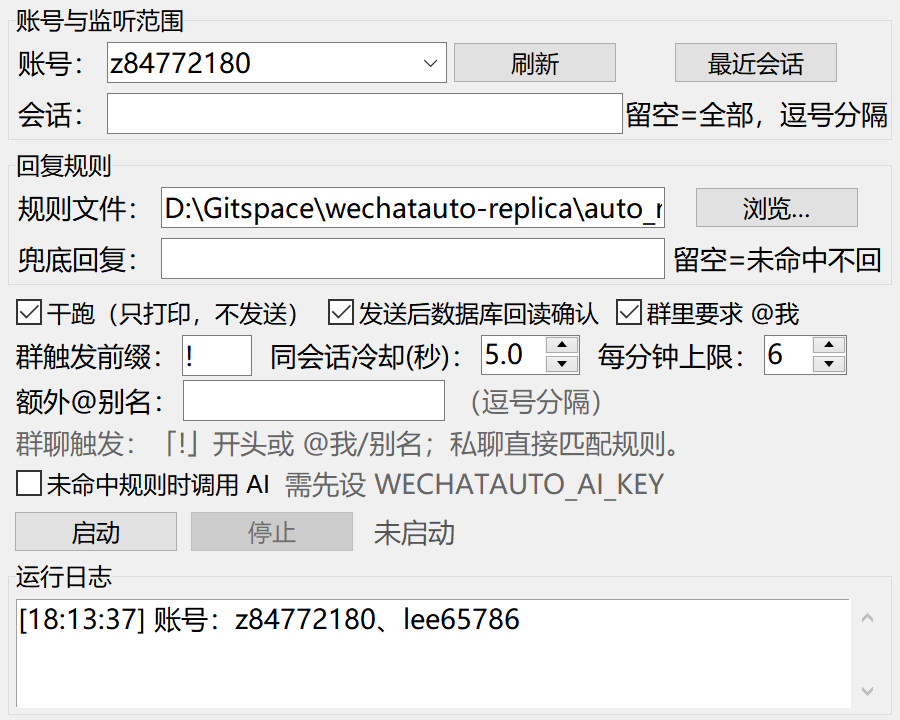
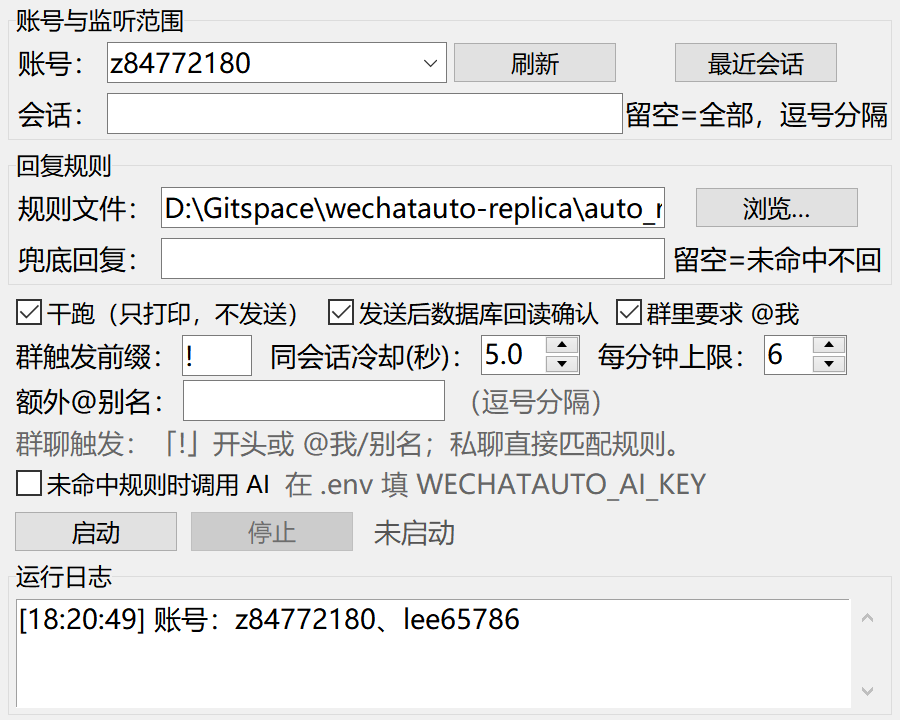
feat(auto-reply): 支持 .env 配置 AI Key
- 新增 .env.example 模板 + wechatauto/env.py 极简加载器
- .env 加入 .gitignore，本地密钥不提交
- ai_reply: 系统环境变量优先，其次仓库根目录 .env
- GUI/文档提示改为在 .env 填 WECHATAUTO_AI_KEY

Changed region(s): [[0.3111, 0.6417, 0.7778, 0.7028], [0.0622, 0.825, 0.1556, 0.8861]]

diff --git a/wechatauto/env.py b/wechatauto/env.py
@@ -1,0 +1,72 @@
+# -*- coding: utf-8 -*-
+"""极简 .env 加载器（不引入 python-dotenv）。
+
+规则：
+
+- 只读取 ``KEY=VALUE``，忽略空行与 ``#`` 注释；
+- 支持 ``export KEY=VALUE``、单引号/双引号；
+- **不覆盖已存在的环境变量**（系统环境优先于 .env）；
+- 默认查找 当前目录/.env 和 仓库根目录/.env。
+
+用法::
+
+    from wechatauto.env import load_dotenv
+    load_dotenv()          # 只补缺失的变量
+"""
+from __future__ import annotations
+
+import os
+from pathlib import Path
+from typing import Dict, Iterable, Optional
+
+
+def _candidates() -> Iterable[Path]:
+    seen = set()
+    for p in (Path.cwd() / ".env",
+              Path(__file__).resolve().parent.parent / ".env"):
+        rp = p.resolve()
+        if rp not in seen:
+            seen.add(rp)
+            yield rp
+
+
+def parse_env_text(text: str) -> Dict[str, str]:
+    """把 .env 文本解析成 dict（不写环境变量）。"""
+    out: Dict[str, str] = {}
+    for raw in (text or "").splitlines():
+        line = raw.strip()
+        if not line or line.startswith("#"):
+            continue
+        if line.startswith("export "):
+            line = line[7:].lstrip()
+        if "=" not in line:
+            continue
+        key, val = line.split("=", 1)
+        key = key.strip()
+        if not key:
+            continue
+        val = val.strip()
+        if len(val) >= 2 and val[0] == val[-1] and val[0] in ("'", '"'):
+            val = val[1:-1]
+        out[key] = val
+    return out
+
+
+def load_dotenv(paths: Optional[Iterable[str]] = None,
+                override: bool = False) -> Dict[str, str]:
+    """加载 .env 到 os.environ，返回本次真正写入的键值。
+
+    ``override=False`` 时**不会覆盖**已有环境变量：系统环境变量优先。
+    """
+    loaded: Dict[str, str] = {}
+    candidates = [Path(p) for p in paths] if paths else list(_candidates())
+    for p in candidates:
+        try:
+            text = p.read_text(encoding="utf-8-sig")
+        except OSError:
+            continue
+        for k, v in parse_env_text(text).items():
+            if override or k not in os.environ:
+                os.environ[k] = v
+                loaded[k] = v
+    return loaded

diff --git a/wechatauto/ai_reply.py b/wechatauto/ai_reply.py
@@ -2,7 +2,8 @@
 """可选的 AI 回复钩子（OpenAI 兼容接口，不用额外依赖）。
 
 只负责「给一段对方消息，返回一段回复文本」，不碰微信、不碰线程。
-默认从环境变量读配置：
+
+配置优先读环境变量，其次读仓库根目录的 ``.env``（``.env`` 已 gitignore）：
 
     WECHATAUTO_AI_KEY     必填，API Key
     WECHATAUTO_AI_BASE    接口地址，默认 https://api.deepseek.com/v1
@@ -11,7 +12,7 @@
     WECHATAUTO_AI_TIMEOUT 超时秒数，默认 20
 
 兼容 DeepSeek / OpenAI / Ollama / vLLM 等 `/chat/completions` 接口。
-Key 只从环境变量读，不写进代码、不落盘。
+Key 只从环境变量 / .env 读，不写进代码；.env 不会被提交。
 """
 from __future__ import annotations
 
@@ -20,6 +21,8 @@ import os
 import urllib.error
 import urllib.request
 from typing import Callable, Optional
+
+from wechatauto.env import load_dotenv
 
 DEFAULT_BASE = "https://api.deepseek.com/v1"
 DEFAULT_MODEL = "deepseek-chat"
@@ -71,6 +74,7 @@ def make_reply_fn(base: Optional[str] = None, key: Optional[str] = None,
                   timeout: Optional[float] = None
                   ) -> Optional[Callable[[str, str, str], Optional[str]]]:
     """构造 ``fn(text, sender, chat) -> reply|None``；没配 Key 返回 None。"""
+    load_dotenv()          # .env 只补缺失项，系统环境变量优先
     key = (key or _env("WECHATAUTO_AI_KEY"))
     if not key:
         return None

diff --git a/wechatauto/auto_reply_gui.py b/wechatauto/auto_reply_gui.py
@@ -140,7 +140,7 @@ class AutoReplyApp:
         ttk.Checkbutton(row5, text="未命中规则时调用 AI",
                         variable=self.ai_var).pack(side="left", padx=6)
         ttk.Label(row5, foreground="#666",
-                  text="需先设 WECHATAUTO_AI_KEY"
+                  text="在 .env 填 WECHATAUTO_AI_KEY"
                   ).pack(side="left", padx=(4, 0))
 
         ctrl = ttk.Frame(self.root)

diff --git a/AUTO_REPLY.md b/AUTO_REPLY.md
@@ -105,15 +105,25 @@ python -m wechatauto.demo_auto_reply --all --rules auto_reply_rules.json
 ## 4. 接入 AI（可选，已内置）
 
 代码在 `wechatauto/ai_reply.py`，走 **OpenAI 兼容** 的 `/chat/completions`
-（DeepSeek / OpenAI / Ollama / vLLM 都行）。Key 只从环境变量读，不写代码、不落盘。
+（DeepSeek / OpenAI / Ollama / vLLM 都行）。
+
+Key 放在仓库根目录的 **`.env`** 里（该文件已被 `.gitignore` 忽略，不会推到 GitHub）：
+
+```ini
+WECHATAUTO_AI_KEY=sk-你的key
+WECHATAUTO_AI_BASE=https://api.deepseek.com/v1
+WECHATAUTO_AI_MODEL=deepseek-chat
+```
+
+没有 `.env` 就复制 `.env.example`：
 
 ```powershell
-$env:WECHATAUTO_AI_KEY="sk-..."                          # 必填
-$env:WECHATAUTO_AI_BASE="https://api.deepseek.com/v1"     # 可选，默认就是这个
-$env:WECHATAUTO_AI_MODEL="deepseek-chat"                  # 可选
-# $env:WECHATAUTO_AI_SYSTEM="你是..."                     # 可选，系统提示词
-# $env:WECHATAUTO_AI_TIMEOUT="20"                         # 可选，秒
+Copy-Item .env.example .env
+notepad .env
 ```
+
+优先级：**系统环境变量 > `.env`**（`.env` 只补缺失项，不会覆盖你已有的设置）。
+改完 `.env` 要**重启 GUI** 才生效。
 
 然后：
 
@@ -123,12 +133,12 @@ $env:WECHATAUTO_AI_MODEL="deepseek-chat"                  # 可选
 匹配顺序是 **规则命中 → AI → 兜底回复**。AI 调用在「每个会话自己的监听线程」里同步进行
 （带超时），只影响该会话，不会阻塞数据库轮询；超时/失败会退回兜底回复。
 
-Ollama 例子：
+Ollama 例子（写进 `.env`）：
 
-```powershell
-$env:WECHATAUTO_AI_BASE="http://127.0.0.1:11434/v1"
-$env:WECHATAUTO_AI_MODEL="qwen2.5:7b"
-$env:WECHATAUTO_AI_KEY="ollama"      # 本地服务随便填一个非空值
+```ini
+WECHATAUTO_AI_BASE=http://127.0.0.1:11434/v1
+WECHATAUTO_AI_MODEL=qwen2.5:7b
+WECHATAUTO_AI_KEY=ollama
 ```
 
 ## 5. 群聊怎么触发
